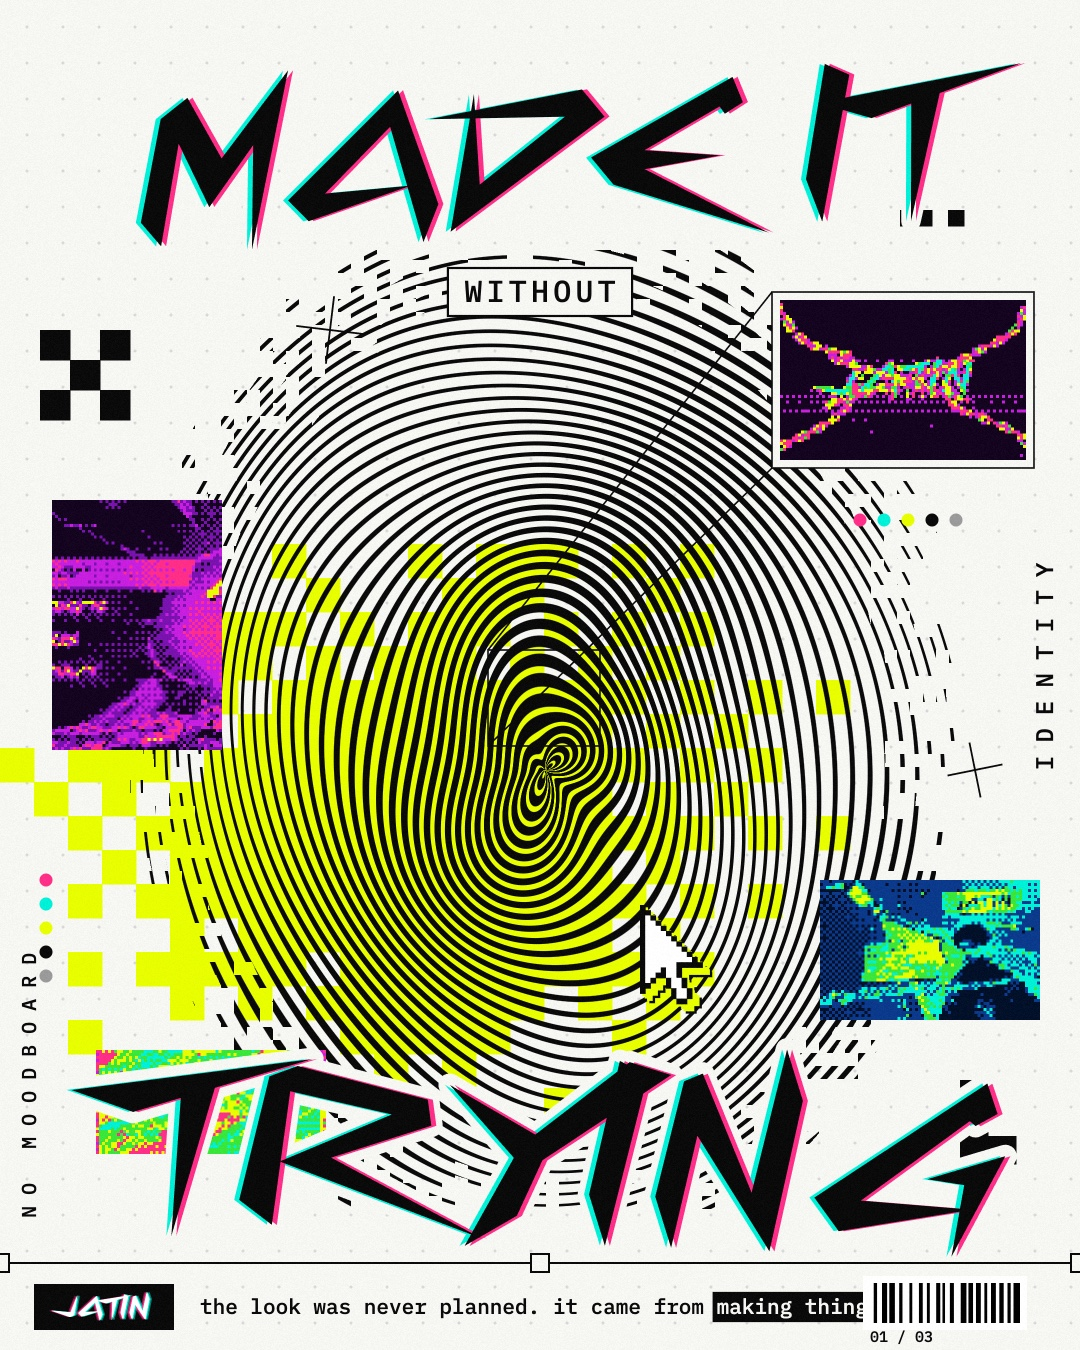
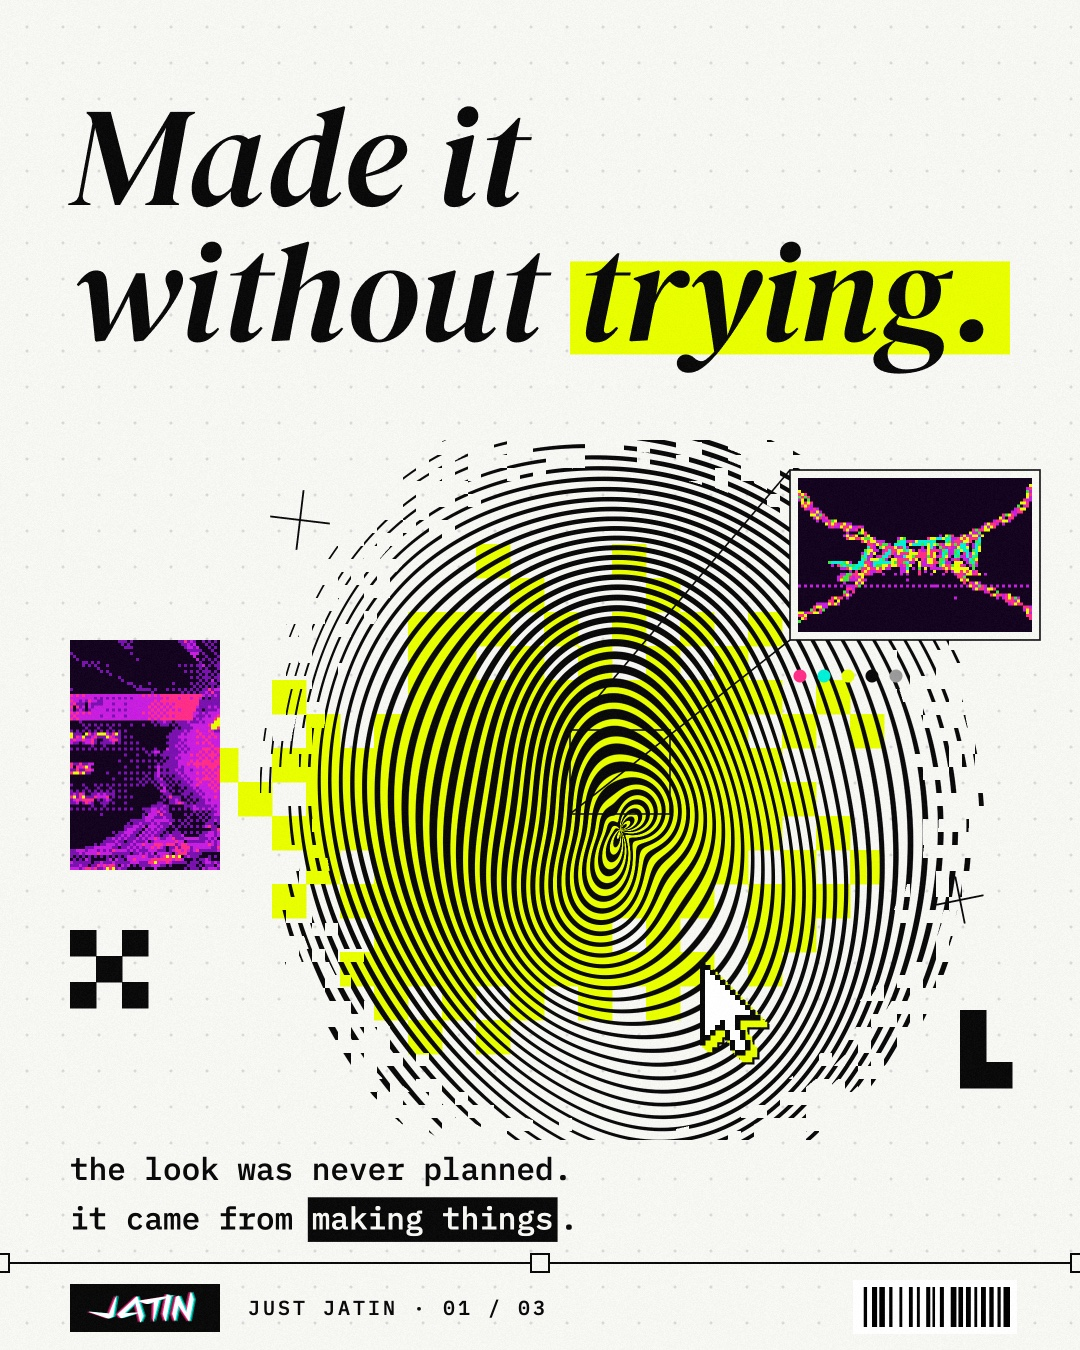
justjatin posts: white round 2, one reading path and a readable serif headline

diff --git a/personal-brand/kit/studio/studio.html b/personal-brand/kit/studio/studio.html
@@ -2,7 +2,7 @@
 <meta charset="utf-8">
 <title>JATIN studio</title>
 <!-- Dev-only still renderer for posts and reel frames. Never ships. three.js r128 from cdnjs. -->
-<link rel="stylesheet" href="https://fonts.googleapis.com/css2?family=IBM+Plex+Mono:ital,wght@0,500;0,600;0,700;1,700&family=VT323&family=Permanent+Marker&display=swap">
+<link rel="stylesheet" href="https://fonts.googleapis.com/css2?family=DM+Serif+Display:ital@0;1&family=IBM+Plex+Mono:ital,wght@0,500;0,600;0,700;1,700&family=VT323&family=Permanent+Marker&display=swap">
 <style>
 @font-face{font-family:"Cyberway Riders";src:url(../../../CyberwayRiders-lg97d.ttf) format("truetype")}
 html,body{margin:0;background:#111}
@@ -761,7 +761,7 @@ function finishW(cv){const o=mk(PW,PH),X=o.getContext('2d');X.drawImage(cv,0,0,P
 const PIX={chk:['101','010','101'],ell:['10','10','11'],step:['001','011','111'],bar:['1101']};
 const WORK=n=>loadImg('../../../website/site/work/'+n+'.jpg');
 
-DRAFTS.w1=async()=>{ // MADE IT without TRYING: identity is a fingerprint, nobody designs theirs. Its core zooms out to the JATIN mark.
+DRAFTS.w1r1=async()=>{ // MADE IT without TRYING: identity is a fingerprint, nobody designs theirs. Its core zooms out to the JATIN mark.
   const [c,x]=wstage(),[logo,menu,about,snap]=await Promise.all([B('intro-float'),B('menu-now'),B('about-now'),B('intro-snap')]);
   pblob(x,430,820,400,310,PAL.acid,34,3);
   const cx=545,cy=730,rx=330,ry=430;
@@ -776,7 +776,7 @@ DRAFTS.w1=async()=>{ // MADE IT without TRYING: identity is a fingerprint, nobod
   wtitle(x,'MADE IT',540,160,{fit:800});blabel(x,'WITHOUT',540,292,30,{align:'center'});wtitle(x,'TRYING',548,1160,{fit:860,rot:.03});
   wfoot(x,1,[['the look was never planned. it came from ',0],['making things',1],['.',0]]);return finishW(c);
 };
-DRAFTS.w2=async()=>{ // CONSUME to your heart's content FIRST: an eye printed in rings; his own frames in the iris and round it
+DRAFTS.w2r1=async()=>{ // CONSUME to your heart's content FIRST: an eye printed in rings; his own frames in the iris and round it
   const [c,x]=wstage(),[iris,a,b2,c3]=await Promise.all(['flux-02/03','outstation/02','flux-03/02','flux-01/01'].map(WORK));
   pblob(x,420,800,430,300,PAL.pink,34,7);
   const cx=540,cy=700,w=840,h=w*.44,R=h*.42;
@@ -799,7 +799,7 @@ DRAFTS.w2=async()=>{ // CONSUME to your heart's content FIRST: an eye printed in
   wtitle(x,'CONSUME',540,150,{fit:880});blabel(x,"TO YOUR HEART'S CONTENT",600,262,24,{align:'center'});wtitle(x,'FIRST',660,1150,{fit:620,rot:.03});
   wfoot(x,2,[['take it all in. ',0],['then make',1],['.',0]]);return finishW(c);
 };
-DRAFTS.w3=async()=>{ // NO FRAMEWORK NO STEPS: an engraved staircase, struck through; the 5-step how-to closed with the cursor
+DRAFTS.w3r1=async()=>{ // NO FRAMEWORK NO STEPS: an engraved staircase, struck through; the 5-step how-to closed with the cursor
   const [c,x]=wstage(),[pc,snap]=await Promise.all([B('pc-chained'),B('intro-snap')]);
   pblob(x,640,830,400,300,PAL.cyan,34,11);
   const x0=220,sw=128,sh=108,yb=1120,dx=110,dy=-92,N=5,col=X=>Math.floor((X-x0)/sw);
@@ -826,6 +826,77 @@ DRAFTS.w3=async()=>{ // NO FRAMEWORK NO STEPS: an engraved staircase, struck thr
   vlabel(x,'RULES: NONE',1050,1100,20);
   wtitle(x,'NO FRAMEWORK',540,150,{fit:960});wtitle(x,'NO STEPS',560,1168,{fit:780,rot:.03});
   wfoot(x,3,[['skip the ',0],['5-step plan',1],['. start making.',0]]);return finishW(c);
+};
+
+// ---- white round 2 (his note: "understand viewers reading patterns and font selection/hierarchy"). One path, top-left
+// first: the headline as one block -> the hero -> the support line -> the mark. Three type levels. The headline is a
+// readable face (DM Serif Display italic, the Sr. Motion ref's move); one word rides a palette marker strip. Cyberway
+// only on the JATIN mark. The support line is mono, 30px+, so it still reads at phone size.
+const HF='"DM Serif Display"';
+function head(g,lines,x,y,size,maxW=PW-x-70){g.save();g.font=`italic 400 ${size}px ${HF}`;const mw=Math.max(...lines.map(ln=>ln.reduce((s,[t,m])=>s+g.measureText(t).width+(m?size*.1:0),0)));if(mw>maxW){size*=maxW/mw;g.font=`italic 400 ${size}px ${HF}`}g.textBaseline='alphabetic';const lh=size*.96;
+  lines.forEach((ln,i)=>{const Y=y+i*lh;let X=x;ln.forEach(([t,mark])=>{const w=g.measureText(t).width;if(mark){g.fillStyle=mark;g.fillRect(X-size*.04,Y-size*.56,w+size*.14,size*.66)}g.fillStyle=INK;g.fillText(t,X,Y);X+=w})});g.restore()}
+function sub(g,x,y,lines,fs=31){lines.forEach((parts,i)=>hlLine(g,x,y+i*fs*1.6,parts,fs))}
+function wfoot2(x,n){x.fillStyle=INK;x.fillRect(0,1262,PW,2);[[0,1263],[PW/2,1263],[PW,1263]].forEach(([cx,cy])=>{x.fillStyle=WP;x.fillRect(cx-9,cy-9,18,18);x.lineWidth=2;x.strokeStyle=INK;x.strokeRect(cx-9,cy-9,18,18)});
+  x.fillStyle=INK;x.fillRect(70,1284,150,48);splitText(x,'JATIN',145,1309,30,0,1.2);x.font='500 20px "IBM Plex Mono"';x.letterSpacing='3px';x.fillStyle=INK;x.textBaseline='middle';x.fillText('JUST JATIN · 0'+n+' / 03',248,1309);x.letterSpacing='0px';barcode(x,PW-220,1287,150,40,n*7)}
+
+DRAFTS.w1=async()=>{ // Made it without trying.
+  const [c,x]=wstage(),[logo,menu]=await Promise.all([B('intro-float'),B('menu-now')]);
+  pblob(x,560,820,360,250,PAL.acid,34,3);
+  const cx=620,cy=800,rx=290,ry=320;
+  x.drawImage(engrave((X,Y)=>{const dx=(X-cx)/rx,dy=(Y-cy)/ry,e=Math.hypot(dx,dy);return[.42+.22*e+.12*Math.sin(X*.011+Y*.007),ragged(e,X,Y)]},
+    (X,Y)=>{const dx=X-cx,dy=(Y-cy-30)*.82,r=Math.hypot(dx,dy),a=Math.atan2(dy,dx);return r+15*Math.sin(a*2+r*.012)+8*Math.sin(a*3-r*.02)},{pitch:10.5,y0:440,h:700}),0,440,PW,700);
+  tile(x,menu,70,640,150,230,HOT,{fx:.3});
+  const ins=[790,470,250,170];x.fillStyle=WP;x.fillRect(...ins);tile(x,logo,ins[0]+8,ins[1]+8,ins[2]-16,ins[3]-16,RAIN,{fy:.45});zoom(x,[570,730,100,84],ins,[0,3]);
+  pixels(x,70,930,PIX.chk,26);pixels(x,960,1010,PIX.ell,26);cross(x,300,520,30);cross(x,960,900,24,-.2);trio(x,800,676);
+  wcursor(x,700,960,5,PAL.acid);
+  head(x,[[['Made it',0]],[['without ',0],['trying.',PAL.acid]]],70,205,168);
+  sub(x,70,1170,[[['the look was never planned.',0]],[['it came from ',0],['making things',1],['.',0]]]);
+  wfoot2(x,1);return finishW(c);
+};
+DRAFTS.w2=async()=>{ // Consume to your heart's content first.
+  const [c,x]=wstage(),[iris,a,b2]=await Promise.all(['flux-02/03','outstation/02','flux-03/02'].map(WORK));
+  pblob(x,470,820,400,250,PAL.pink,34,7);
+  const cx=560,cy=790,w=760,h=w*.44,R=h*.42;
+  const up=xn=>-h*.58*Math.pow(1-xn*xn,.85),dn=xn=>h*.44*Math.pow(1-xn*xn,1.05);
+  const L=(X,Y)=>{const xn=(X-cx)/(w/2),dy=Y-cy,e=Math.hypot((X-cx)/(w*.6),(Y-cy)/(h*1.02));const a=ragged(e,X,Y,2);if(!a)return[1,0];
+    if(Math.abs(xn)<1&&dy>up(xn)&&dy<dn(xn)){const top=clamp(1-(dy-up(xn))/34);return[.93-.45*Math.pow(Math.abs(xn),3)-.4*top,a]}
+    const edge=Math.abs(xn)<1?Math.min(Math.abs(dy-up(xn)),Math.abs(dy-dn(xn))):60,crease=Math.abs(xn)<.85?Math.abs(dy-(up(xn)-h*.3)):99;
+    return[crease<9?.18:edge<24?.3+edge/80:.66-.12*Math.abs(xn),a]};
+  x.drawImage(engrave(L,(X,Y)=>{const dx=X-cx,dy=(Y-cy)*1.15,r=Math.hypot(dx,dy);return r+5*Math.sin(Math.atan2(dy,dx)*6+r*.02)},{pitch:8.5,y0:420,h:740}),0,420,PW,740);
+  x.save();x.beginPath();x.arc(cx,cy,R,0,7);x.clip();x.drawImage(gmap(iris,R*2,R*2,RAIN),cx-R,cy-R,R*2,R*2);x.restore();
+  x.lineWidth=5;x.strokeStyle=INK;x.beginPath();x.arc(cx,cy,R,0,7);x.stroke();x.fillStyle=INK;x.beginPath();x.arc(cx,cy,R*.38,0,7);x.fill();
+  x.fillStyle='#fff';x.fillRect(cx-R*.5,cy-R*.54,R*.16,R*.16);x.fillRect(cx-R*.34,cy-R*.46,R*.1,R*.1);
+  x.beginPath();for(let i=0;i<=40;i++){const xn=-1+i/20;x.lineTo(cx+xn*w/2,cy+up(xn))}for(let i=40;i>=0;i--){const xn=-1+i/20;x.lineTo(cx+xn*w/2,cy+dn(xn))}x.closePath();x.lineWidth=7;x.lineJoin='round';x.strokeStyle=INK;x.stroke();
+  tile(x,a,60,930,180,120,COOL);tile(x,b2,850,560,170,230,HOT);
+  pixels(x,960,1040,PIX.step,24);cross(x,180,560,28);cross(x,930,1000,24,-.2);trio(x,860,520);
+  wcursor(x,770,880,5,PAL.pink);
+  head(x,[[['Consume to your',0]],[["heart's content ",0],['first.',PAL.pink]]],70,185,118);
+  sub(x,70,1200,[[['take it all in. ',0],['then make',1],['.',0]]]);
+  wfoot2(x,2);return finishW(c);
+};
+DRAFTS.w3=async()=>{ // No framework. No steps.
+  const [c,x]=wstage(),[snap]=await Promise.all([B('intro-snap')]);
+  pblob(x,680,850,360,260,PAL.cyan,34,11);
+  const x0=290,sw=116,sh=96,yb=1110,dx=100,dy=-84,N=5,col=X=>Math.floor((X-x0)/sw);
+  const face=(X,Y)=>{const i=col(X);if(i>=0&&i<N&&Y<=yb&&Y>=yb-(i+1)*sh)return['f',i];
+    for(let k=N-1;k>=0;k--){const t=(Y-(yb-(k+1)*sh))/dy;if(t>=0&&t<=1){const xe=X-t*dx;if(xe>=x0+k*sw&&xe<=x0+(k+1)*sw)return['t',k]}}
+    const t=(X-(x0+N*sw))/dx;if(t>=0&&t<=1){const ye=Y-t*dy;if(ye<=yb&&ye>=yb-N*sh)return['s',N-1]}return null};
+  x.drawImage(engrave((X,Y)=>{const f=face(X,Y);if(!f)return[1,0];return[f[0]==='t'?.86:f[0]==='s'?.1:(f[1]&1?.5:.3)-.14*((Y-(yb-(f[1]+1)*sh))/((f[1]+1)*sh)),1]},
+    (X,Y)=>{const f=face(X,Y);return!f?0:f[0]==='f'?Y:f[0]==='t'?(X*.64-Y*.77):X*.9+Y*.3},{pitch:8,y0:500,h:640}),0,500,PW,640);
+  x.save();x.strokeStyle=INK;x.lineWidth=3;x.lineJoin='round';for(let k=0;k<N;k++){const L0=x0+k*sw,T=yb-(k+1)*sh;x.strokeRect(L0,T,sw,yb-T);x.beginPath();x.moveTo(L0,T);x.lineTo(L0+dx,T+dy);x.lineTo(L0+sw+dx,T+dy);x.lineTo(L0+sw,T);x.stroke()}
+  {const R0=x0+N*sw;x.beginPath();x.moveTo(R0+dx,yb-N*sh+dy);x.lineTo(R0+dx,yb+dy);x.lineTo(R0,yb);x.stroke()}x.restore();
+  {const A=[250,1130],Bp=[1020,560],cell=20,L=Math.hypot(Bp[0]-A[0],Bp[1]-A[1]),nx=-(Bp[1]-A[1])/L,ny=(Bp[0]-A[0])/L;x.fillStyle=PAL.pink;
+   for(let j=20;j<1200/cell;j++)for(let i=0;i<PW/cell;i++){const X=(i+.5)*cell,Y=(j+.5)*cell,t=((X-A[0])*(Bp[0]-A[0])+(Y-A[1])*(Bp[1]-A[1]))/L/L,d=Math.abs((X-A[0])*nx+(Y-A[1])*ny)+(hash(i,j*3)-.5)*12;if(t<0||t>1)continue;if(1-d/42>bay(i,j)*.6)x.fillRect(i*cell,j*cell,cell+.5,cell+.5)}}
+  {const X0=60,Y0=470,Wd=380,Hd=300;x.fillStyle=INK;x.fillRect(X0+10,Y0+10,Wd,Hd);x.fillStyle=WP;x.fillRect(X0,Y0,Wd,Hd);x.lineWidth=3;x.strokeStyle=INK;x.strokeRect(X0,Y0,Wd,Hd);x.fillStyle=INK;x.fillRect(X0,Y0,Wd,38);
+   x.font='500 16px "IBM Plex Mono"';x.fillStyle=WP;x.textBaseline='middle';x.fillText('HOW_TO_BUILD_A_BRAND.PDF',X0+14,Y0+20);x.fillRect(X0+Wd-32,Y0+7,24,24);x.fillStyle=INK;x.font='700 16px "IBM Plex Mono"';x.fillText('X',X0+Wd-25,Y0+20);
+   ['find your niche','pick 3 colours','make a moodboard','post every day','stay consistent'].forEach((t,i)=>{const y=Y0+78+i*44;x.lineWidth=2.5;x.strokeRect(X0+18,y-12,24,24);x.font='500 18px "IBM Plex Mono"';const s='STEP '+(i+1)+'  '+t;x.fillText(s,X0+56,y+1);x.fillRect(X0+50,y-1,x.measureText(s).width+12,3)});
+   wcursor(x,X0+Wd-22,Y0+20,4.2,PAL.cyan)}
+  tile(x,snap,60,860,150,200,RAIN,{fx:.5});
+  {const pal=chPal(PAL.pink),L=chainCurve([[260,782],[300,880],[420,940],[520,950]],.85,1.4,3);layChain(x,L.filter((l,i)=>i<6||i>9),pal)}
+  pixels(x,960,1030,PIX.step,26);cross(x,860,500,28);cross(x,1010,760,24,-.2);trio(x,860,440);
+  head(x,[[['No framework.',0]],[['No ',0],['steps.',PAL.cyan]]],70,215,170);
+  sub(x,70,1200,[[['skip the ',0],['5-step plan',1],['. start making.',0]]]);
+  wfoot2(x,3);return finishW(c);
 };
 
 const RW=1080,RH=1920;
@@ -993,7 +1064,7 @@ DRAFTS.m1=async()=>{
 // ============================================================ boot
 (async()=>{
   try{
-    await Promise.all([document.fonts.load('100px "Cyberway Riders"'),document.fonts.load('700 40px "IBM Plex Mono"'),document.fonts.load('italic 700 40px "IBM Plex Mono"'),document.fonts.load('600 40px "IBM Plex Mono"'),document.fonts.load('500 40px "IBM Plex Mono"'),document.fonts.load('40px VT323'),document.fonts.load('40px "Permanent Marker"')]);
+    await Promise.all([document.fonts.load('100px "Cyberway Riders"'),document.fonts.load('700 40px "IBM Plex Mono"'),document.fonts.load('italic 700 40px "IBM Plex Mono"'),document.fonts.load('600 40px "IBM Plex Mono"'),document.fonts.load('500 40px "IBM Plex Mono"'),document.fonts.load('italic 400 40px "DM Serif Display"'),document.fonts.load('40px VT323'),document.fonts.load('40px "Permanent Marker"')]);
     const out=await DRAFTS[DRAFT]();out.id='out';document.body.appendChild(out);window.READY=true;
   }catch(e){window.ERR=String(e&&e.stack||e);console.error(e)}
 })();

diff --git a/personal-brand/kit/index.html b/personal-brand/kit/index.html
@@ -67,8 +67,30 @@ details[open] .th{visibility:hidden}
   <h1>justjatin posts</h1>
   <p class="lede">Every round, newest look first. Open a look, then a round.</p>
   <details class="look" open>
-    <summary><span class="tt">White look · round 1<small>21 nov 2026 · current</small></span><span class="th"><img src="concepts/2026-11-21-white-look/img/w1.jpg" alt="" loading="lazy"><img src="concepts/2026-11-21-white-look/img/w2.jpg" alt=""><img src="concepts/2026-11-21-white-look/img/w3.jpg" alt=""></span></summary>
+    <summary><span class="tt">White look · rounds 1–2<small>21 nov 2026 · current</small></span><span class="th"><img src="concepts/2026-11-21-white-look/img/w1.jpg" alt="" loading="lazy"><img src="concepts/2026-11-21-white-look/img/w2.jpg" alt=""><img src="concepts/2026-11-21-white-look/img/w3.jpg" alt=""></span></summary>
     <div class="in">
+      <details open>
+        <summary><span class="tt">Round 2 · one reading path, a readable headline</span><span class="th"><img src="concepts/2026-11-21-white-look/img/w1.jpg" alt="" loading="lazy"><img src="concepts/2026-11-21-white-look/img/w2.jpg" alt="" loading="lazy"><img src="concepts/2026-11-21-white-look/img/w3.jpg" alt="" loading="lazy"></span></summary>
+        <div class="in">
+    <p>Your note: <i>"u need to understand viewers reading patterns and font selection/hierarchy for the readers to read to easily."</i></p>
+    <ul class="fix">
+      <li><b>One path, top-left first:</b> the headline → the picture → the line under it → the JATIN mark. The sentence is never split round the picture any more (CONSUME … FIRST read as two separate words).</li>
+      <li><b>The headline is a face you read in one glance:</b> a heavy italic serif, like your Sr. Motion reference. Cyberway's spikes are great for the logo but slow to read in a sentence, so it now sits only on the JATIN mark.</li>
+      <li><b>Three sizes, no more:</b> headline, one support line (bigger, so it reads on a phone), and the small mark. The boxed WITHOUT label, the side words and the tiny footer copy are gone.</li>
+      <li><b>One word carries the colour:</b> trying, first, steps sit on a palette marker strip, the site's highlight move.</li>
+    </ul>
+    <div class="posts">
+      <figure><img src="concepts/2026-11-21-white-look/img/w1.jpg" width="1080" height="1350" alt="White round 2: Made it without trying, a serif italic headline top-left, trying on an acid strip, the engraved fingerprint below"><figcaption><b>Made it without trying.</b></figcaption></figure>
+      <figure><img src="concepts/2026-11-21-white-look/img/w2.jpg" width="1080" height="1350" alt="White round 2: Consume to your heart's content first, first on a pink strip, the engraved eye below"><figcaption><b>Consume to your heart's content first.</b></figcaption></figure>
+      <figure><img src="concepts/2026-11-21-white-look/img/w3.jpg" width="1080" height="1350" alt="White round 2: No framework. No steps., steps on a cyan strip, the struck-through staircase and the how-to window below"><figcaption><b>No framework. No steps.</b></figcaption></figure>
+    </div>
+    <p class="lbl" style="margin-top:28px">At phone size, as they show in the feed</p>
+    <figure style="margin-top:12px"><img src="concepts/2026-11-21-white-look/img/round2-phone.jpg" alt="The three round 2 posts at phone width side by side" loading="lazy"></figure>
+        </div>
+      </details>
+      <details>
+        <summary><span class="tt">Round 1 · first white pass</span><span class="th"><img src="concepts/2026-11-21-white-look/img/w1-round1.jpg" alt="" loading="lazy"><img src="concepts/2026-11-21-white-look/img/w2-round1.jpg" alt="" loading="lazy"><img src="concepts/2026-11-21-white-look/img/w3-round1.jpg" alt="" loading="lazy"></span></summary>
+        <div class="in">
     <p>Your note: <i>"something that is simpler like my reference but also including our style with a white background too keep it more liking to audience"</i>.</p>
     <ul class="fix">
       <li><b>From the references:</b> white paper with a faint dot grid, one big black line-engraved hero, a few loud colour tiles, black pixel blocks, thin crosshairs, a zoom box out to an inset, and a boxed label between the title words.</li>
@@ -76,9 +98,9 @@ details[open] .th{visibility:hidden}
       <li><b>The hero comes from the topic.</b> MADE IT: a fingerprint, because nobody designs their own; its core zooms out to the JATIN logo. CONSUME: an eye with your photo in the iris. NO STEPS: a staircase, struck through, and the 5-step how-to being closed with the cursor.</li>
     </ul>
     <div class="posts">
-      <figure><img src="concepts/2026-11-21-white-look/img/w1.jpg" width="1080" height="1350" alt="White round 1: MADE IT WITHOUT TRYING over a black line-engraved fingerprint on an acid pixel blob, palette tiles of the site, a zoom box to the JATIN logo"><figcaption><b>MADE IT without TRYING.</b></figcaption></figure>
-      <figure><img src="concepts/2026-11-21-white-look/img/w2.jpg" width="1080" height="1350" alt="White round 1: CONSUME TO YOUR HEART'S CONTENT FIRST over a line-engraved eye, his photo dithered in the iris, a pink pixel blob behind"><figcaption><b>CONSUME to your heart's content FIRST.</b></figcaption></figure>
-      <figure><img src="concepts/2026-11-21-white-look/img/w3.jpg" width="1080" height="1350" alt="White round 1: NO FRAMEWORK NO STEPS over a line-engraved staircase struck through in pink pixels, a how-to window with every step crossed out"><figcaption><b>NO FRAMEWORK NO STEPS.</b></figcaption></figure>
+      <figure><img src="concepts/2026-11-21-white-look/img/w1-round1.jpg" width="1080" height="1350" alt="White round 1: MADE IT WITHOUT TRYING over a black line-engraved fingerprint on an acid pixel blob, palette tiles of the site, a zoom box to the JATIN logo"><figcaption><b>MADE IT without TRYING.</b></figcaption></figure>
+      <figure><img src="concepts/2026-11-21-white-look/img/w2-round1.jpg" width="1080" height="1350" alt="White round 1: CONSUME TO YOUR HEART'S CONTENT FIRST over a line-engraved eye, his photo dithered in the iris, a pink pixel blob behind"><figcaption><b>CONSUME to your heart's content FIRST.</b></figcaption></figure>
+      <figure><img src="concepts/2026-11-21-white-look/img/w3-round1.jpg" width="1080" height="1350" alt="White round 1: NO FRAMEWORK NO STEPS over a line-engraved staircase struck through in pink pixels, a how-to window with every step crossed out"><figcaption><b>NO FRAMEWORK NO STEPS.</b></figcaption></figure>
     </div>
     <div class="honest"><p><b>Not there yet:</b> it's still busier than your references; the next pass could cut a tile or two per post. The site tiles in MADE IT read as abstract colour more than as your screens.</p></div>
     <p class="lbl" style="margin-top:28px">Your two references</p>
@@ -86,6 +108,8 @@ details[open] .th{visibility:hidden}
       <figure><img src="concepts/2026-11-21-white-look/img/ref11-1.jpg" alt="Reference: 026 Memorias poster" loading="lazy"><figcaption>026 MEMORIAS</figcaption></figure>
       <figure><img src="concepts/2026-11-21-white-look/img/ref11-2.jpg" alt="Reference: Sr. Motion Designer poster" loading="lazy"><figcaption>Sr. Motion Designer</figcaption></figure>
     </div>
+        </div>
+      </details>
     </div>
   </details>
   <details class="look">

diff --git a/CLAUDE.md b/CLAUDE.md
@@ -57,6 +57,10 @@ brand and inside personal brand it will be videos and posts"):
   with pixel dissolve). Our pinch: palette as the colour doses, Bayer dither / pixel steps, the pixel chain and cursor,
   red/cyan split on the hero, mono labels in boxes. This replaces the dark world and the maximal background below; the
   topic-first and title-first rules stay.
+- **Posts read in one path** (his note on white round 1: "understand viewers reading patterns and font selection/hierarchy
+  for the readers to read to easily"): headline as one block top-left → hero → support line → JATIN mark; never split a
+  sentence round the hero; three type levels max; headline in a readable face (DM Serif Display italic), Cyberway only
+  for the mark; support copy ≥30px on the 1080 canvas; check at phone size.
 - **(Before 2026-11-21) Posts are maximalist collage, built from the post's topic** (his note: round 8 was "sitting too much in the comfort
   zone … our post design has to be relavant to the context of what the post is about"). Keeping his style "doe'snt mean
   to use the same exact look and assets": palette, dither, pixel pieces, chain and fonts are ingredients, never one

diff --git a/personal-brand/kit/concepts/2026-11-21-white-look/README.md b/personal-brand/kit/concepts/2026-11-21-white-look/README.md
@@ -36,3 +36,18 @@ got lost in them (cut).
 **Open:** still busier than his references; MADE IT's site tiles read as abstract colour.
 
 **Stills:** `img/w1.jpg`–`img/w3.jpg`. Viewer: `personal-brand/kit/index.html` (white look and dark look, one drop-down each).
+
+## Round 2 — 2026-11-21 · one reading path, a readable headline
+
+**His note, in his words:** "overall the design looks good but the problem is u need to understand viewers reading
+patterns and font selection/hierarchy for the readers to read to easily."
+
+**Built** (drafts `w1`–`w3`; round 1 kept as `w1r1`–`w3r1`):
+- One path, top-left first: headline block → hero → support line → JATIN mark. No sentence split round the hero.
+- Headline in DM Serif Display italic (`head`, fitted to the width), one word on a palette marker strip; Cyberway only on
+  the mark; no split on the headline.
+- Three levels: headline, a 31px mono support line (`sub`), the footer mark (`wfoot2`). Cut: the boxed WITHOUT, the side
+  words, the 21px footer sentence, extra tiles.
+- Checked at phone width (`img/round2-phone.jpg`).
+
+**Stills:** round 1 is `img/w*-round1.jpg`; round 2 is `img/w*.jpg`.
